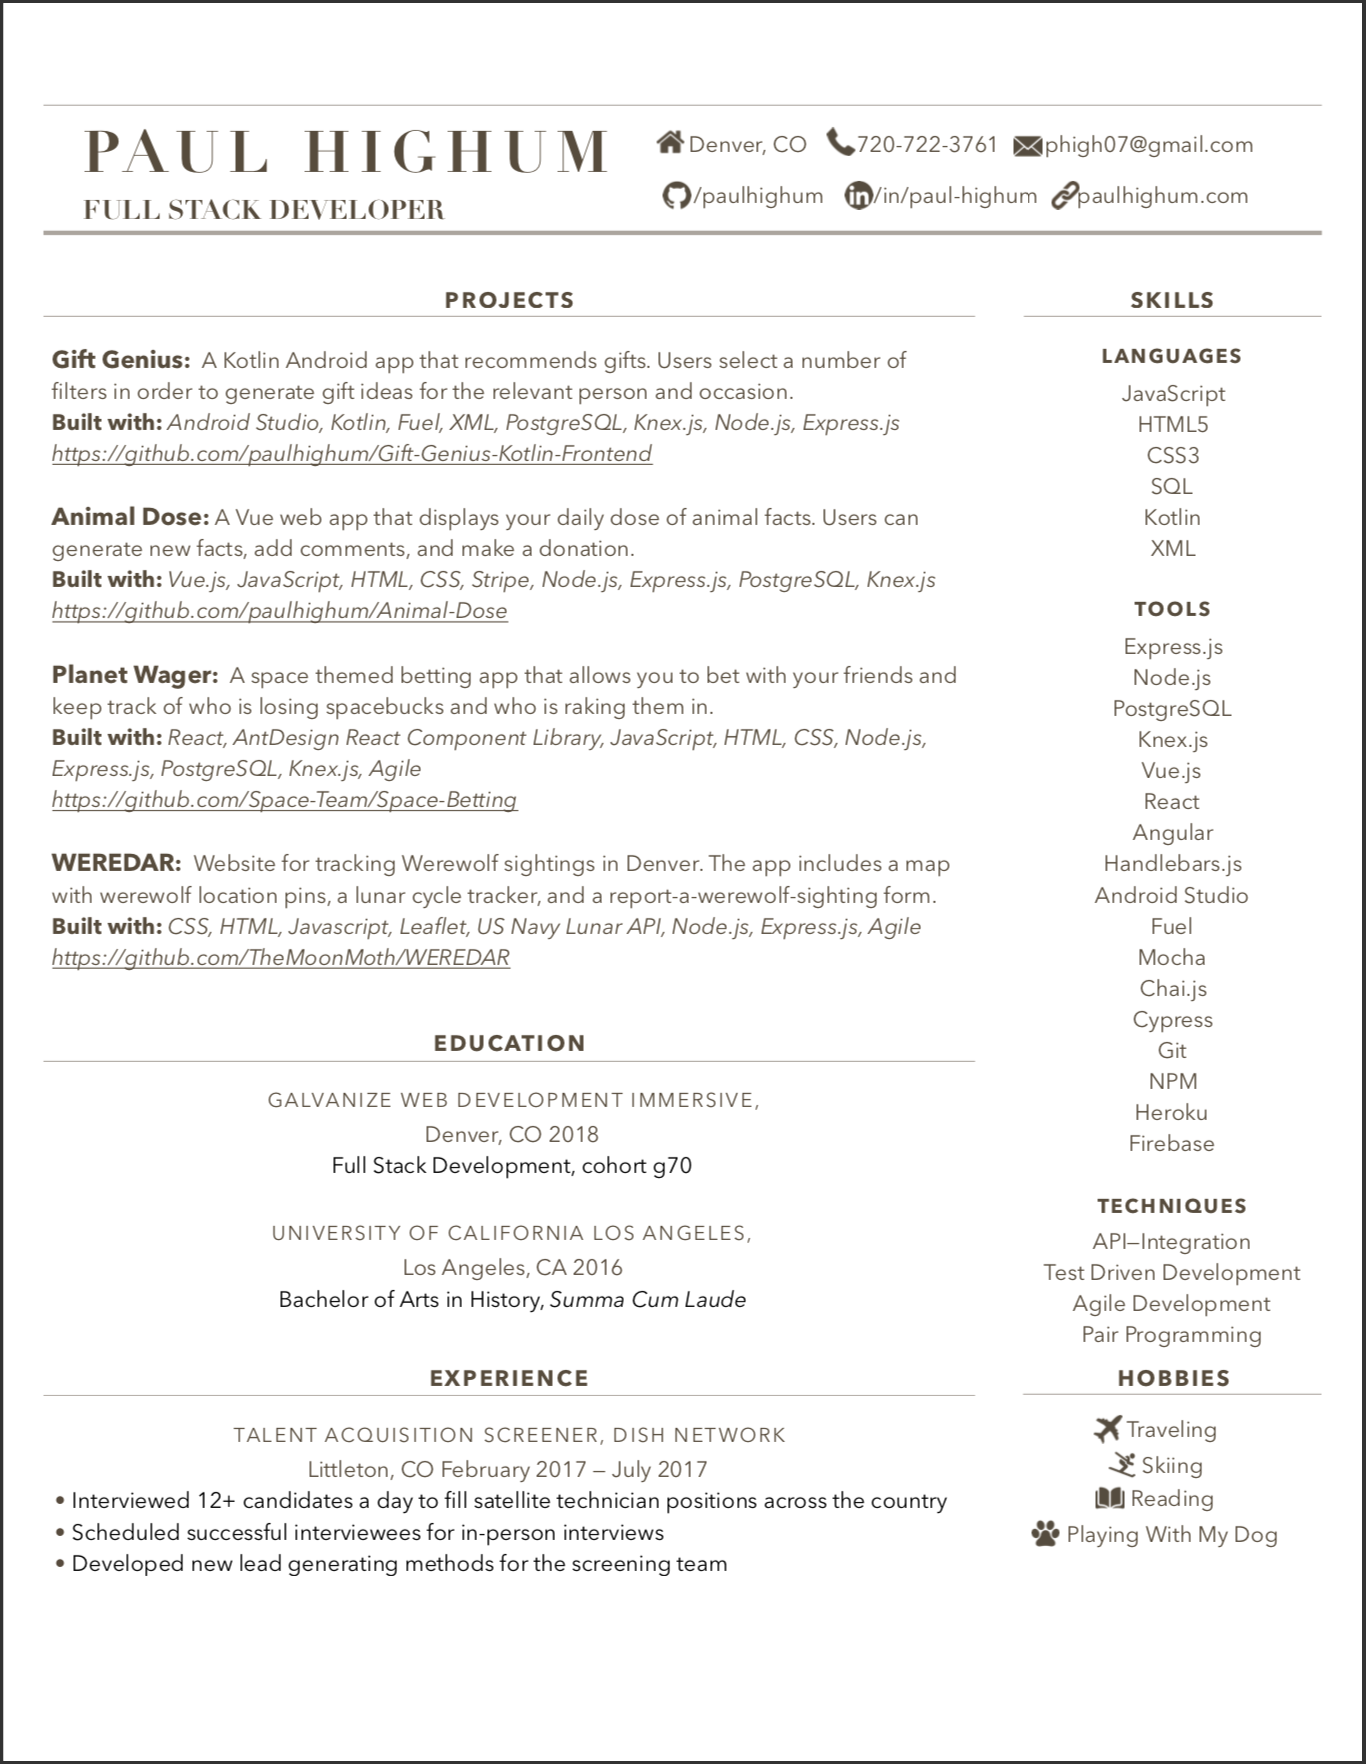
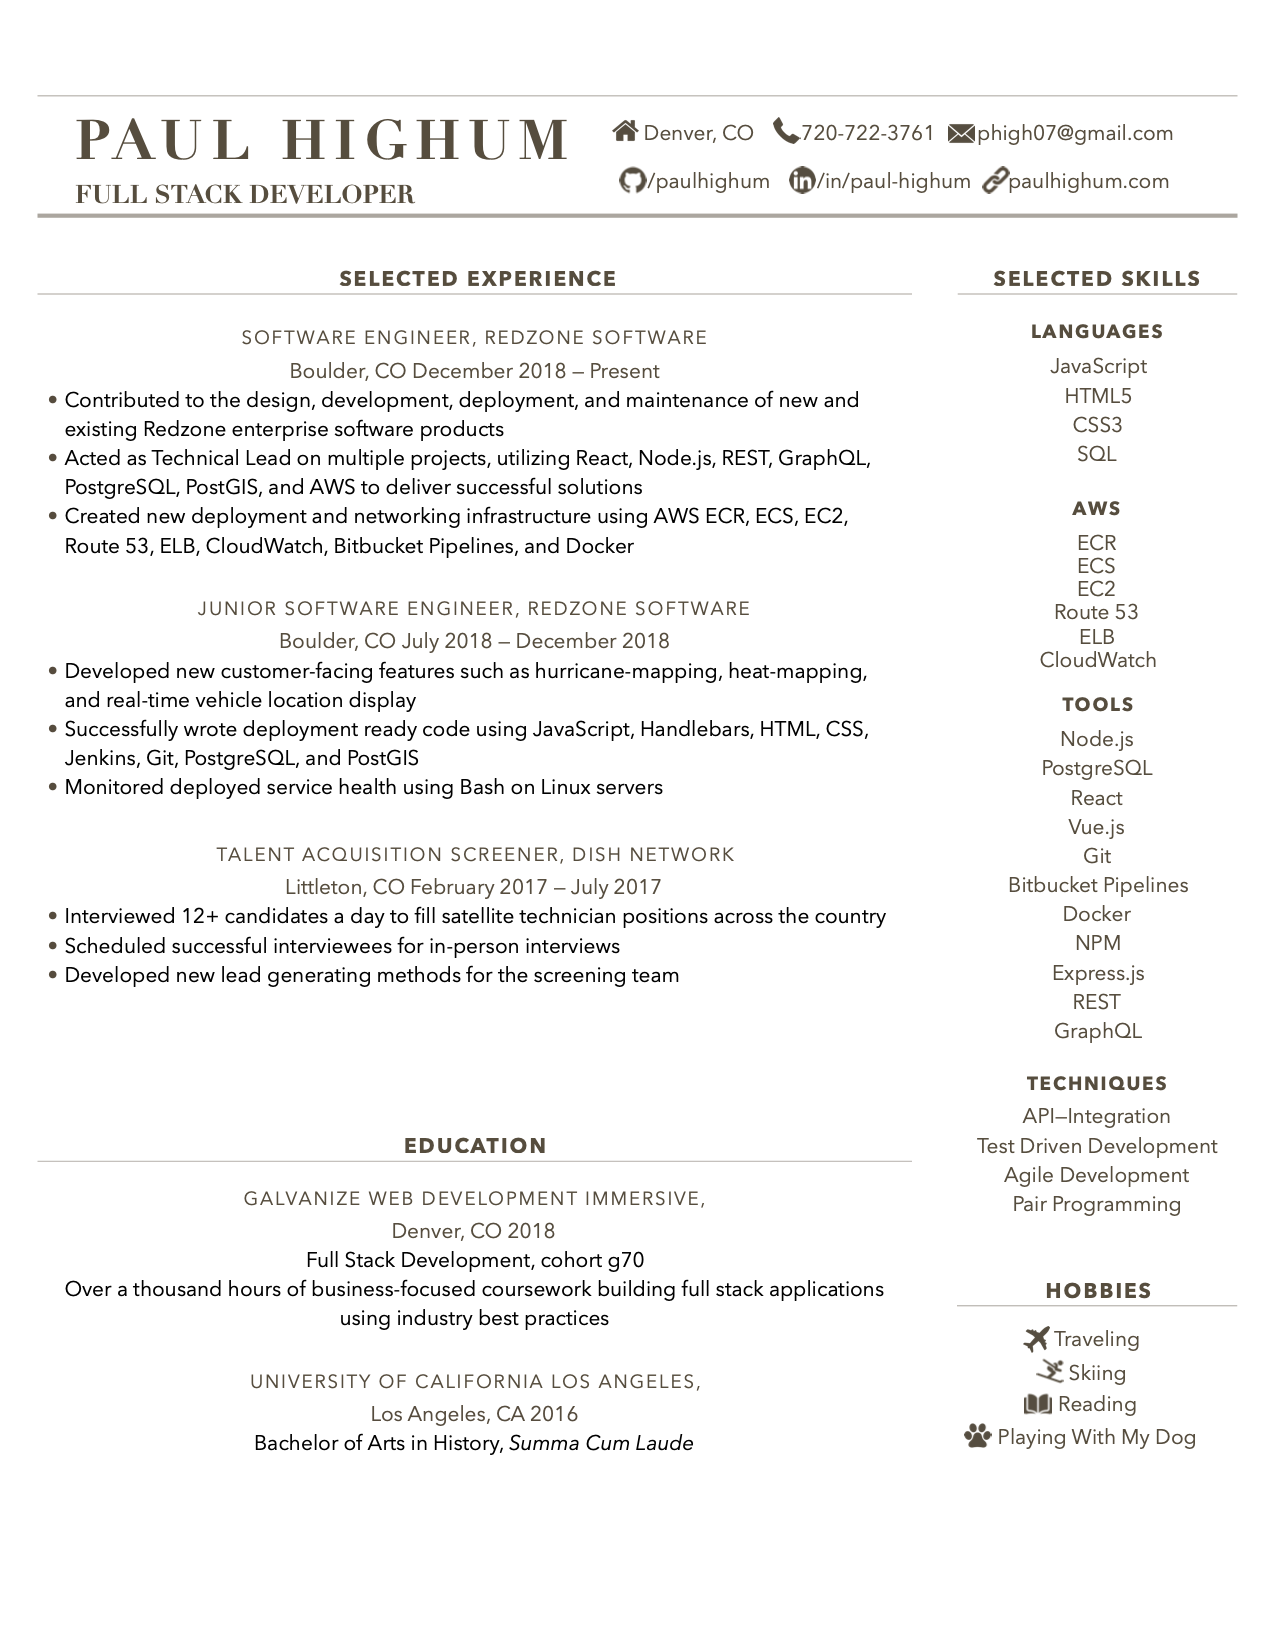
Updates to Resume/About from past two years of career

Changed region(s): [[0.0, 0.0, 1.0, 1.0], [0.7647, 0.1545, 0.9482, 0.8964], [0.4894, 0.0618, 0.9176, 0.1236]]

diff --git a/src/components/Resume.vue b/src/components/Resume.vue
@@ -8,11 +8,11 @@
         <h3>Highlights</h3>
         <img src="../../static/line-break.png" alt="line break" class="small-section-title-break">
         <ul class="highlights-list">
-          <li>Galvanize Web Development Immersive Grad</li>
-          <li>Technical Skill Highlights: HTML5, CSS3, JavaScript, React, Vue, Node.js, and PostgreSQL</li>
+          <li>Experienced Full Stack Developer and Technical Lead</li>
+          <li>Technical Skill Highlights: JavaScript, React, Vue, Node.js, AWS, REST, GraphQL, and PostgreSQL</li>
           <li>Project Development Using Agile Methodologies</li>
           <li>Graduated Summa Cum Laude From UCLA In Three Years</li>
-          <li>Experience Working In A Fast Paced Professional Environment At Dish Network</li>
+          <li>Experience Working In A Fast Paced Startup Environment At RedZone Software</li>
         </ul>
         <button type="button" name="button" @click="visitResume">View Resume PDF</button>
       </div>
@@ -24,7 +24,7 @@ export default {
   name: "Resume",
   methods: {
     visitResume() {
-     window.open("https://drive.google.com/file/d/1KUi5CPUZkYYZxyXPq9E5MTH0igQiTNSz/view?usp=sharing", "_blank")
+     window.open("https://drive.google.com/file/d/1coIRk0mfSkkGwzjxoKXSMkQC5xlU8Lyt/view?usp=sharing", "_blank")
     }
   }
 }
@@ -55,6 +55,8 @@ h2 {
 #resume-png {
   max-width: 40vw;
   padding: 0 1vw 0 0;
+  border: 1px solid black;
+  border-radius: 5px;
 }
 
 .resume-container {

diff --git a/src/components/About.vue b/src/components/About.vue
@@ -3,8 +3,8 @@
     <h2>About Me</h2>
     <img src="../../static/line-break.png" alt="line break" class="section-title-break">
     <div class="about-style">
-      <p> I am a Full Stack Developer who gets a thrill from writing successful logic in any programming language. I enjoy learning about new technologies, pairing on code, and participating in hackathons.
-          I have developed skills on both the frontend and the backend, and have an interest in working in either area.
+      <p> I am a Full Stack Developer who gets a thrill from writing successful logic in any programming language. I enjoy learning new technologies, collaborating with my teammates, and mentoring Junior Developers.
+          I have curated skills in project management, in people management, and throughout the development lifecycle that I would be excited to bring to your team.
         </p>
         <br>
         <p>
